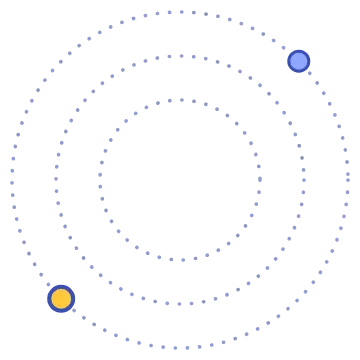
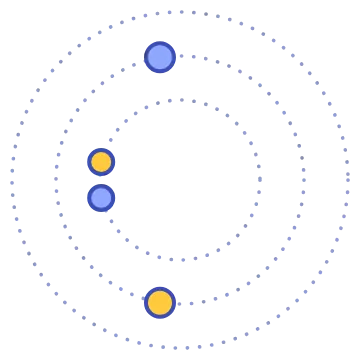
fix(front): banda de KPI en 3x2 a 1366, decoración solo en el margen derecho, escalonado por banda, Clientes compacto, Ajustes en caliente

diff --git a/kerna/front/app/estaticos/kerna.css b/kerna/front/app/estaticos/kerna.css
@@ -862,11 +862,11 @@ k-n svg,k-lx svg{display:block;width:100%;height:100%;overflow:visible}
 /* banda de indicadores */
 .kbs{display:grid;grid-template-columns:repeat(2,minmax(0,1fr));gap:12px 0}
 @media(min-width:900px){.kbs{grid-template-columns:repeat(4,minmax(0,1fr))}.kbs6{grid-template-columns:repeat(3,minmax(0,1fr))}}
-@media(min-width:1240px){.kbs6{grid-template-columns:repeat(6,minmax(0,1fr))}}
+@media(min-width:1800px){.kbs6{grid-template-columns:repeat(6,minmax(0,1fr))}}
 .kb{display:flex;align-items:center;gap:10px;padding:2px 14px;min-width:0;border-left:2px dotted var(--line-strong)}
 .kbs>.kb:first-child,.kb:nth-child(2n+1){border-left:0}
 @media(min-width:900px){.kbs>.kb:nth-child(2n+1){border-left:2px dotted var(--line-strong)}.kbs>.kb:first-child{border-left:0}.kbs6>.kb:nth-child(3n+1){border-left:0}}
-@media(min-width:1240px){.kbs6>.kb:nth-child(3n+1){border-left:2px dotted var(--line-strong)}.kbs6>.kb:first-child{border-left:0}}
+@media(min-width:1800px){.kbs6>.kb:nth-child(3n+1){border-left:2px dotted var(--line-strong)}.kbs6>.kb:first-child{border-left:0}}
 .kb-b{display:grid;gap:2px;min-width:0}
 .kb-l{display:flex;align-items:center;gap:2px;font:500 11px/1.2 "JetBrains Mono",monospace;letter-spacing:.08em;text-transform:uppercase;color:var(--muted)}
 .kb-v{display:flex;align-items:baseline;gap:4px;color:var(--st);line-height:1.05}
@@ -876,7 +876,6 @@ k-n svg,k-lx svg{display:block;width:100%;height:100%;overflow:visible}
 .kb-e{display:flex;align-items:center;gap:4px;font-size:12px;font-weight:700;color:var(--st)}
 .kb .bu{display:block;width:120px;max-width:100%;margin:2px 0 0;padding:0}
 .kb .bu-t{margin-top:4px}.kb .bu-gl{position:static;transform:none;display:block;margin-top:3px;font-size:11px;color:var(--muted);font-weight:600}
-@media(max-width:1239px){.kbs6 .kb-l{font-size:10.5px}}
 .kbs6 .kb{gap:8px;padding:2px 10px}.kbs6 .kb>k-st,.kbs6 .kb>k-n{--s:36px!important}
 /* camino de una denuncia */
 .cm{list-style:none;margin:0;padding:0;display:flex;gap:4px;position:relative}
@@ -1116,11 +1115,11 @@ html,body{max-width:100%}
 #app .vw-main{max-width:1440px;margin-inline:auto}
 :is(#zona,.zv) .bn{--ok:#17622E;--cut:20px;position:relative;margin:0 0 12px;padding:14px 20px 12px;background-color:var(--z1);background-image:var(--arc),var(--arc),linear-gradient(100deg,var(--z1),var(--z2));background-repeat:no-repeat;background-position:right -90px top -90px,left -90px bottom -90px,0 0;background-size:180px 180px,180px 180px,100% 100%;
   clip-path:polygon(0 0,calc(100% - var(--cut)) 0,100% var(--cut),100% 100%,var(--cut) 100%,0 calc(100% - var(--cut)))}
-:is(#zona,.zv) .z-pr{--z1:#E9FBB8;--z2:#D6F4C8;--arc:url(img/zona-pr.webp)}
-:is(#zona,.zv) .z-kb{--z1:#D9E4FF;--z2:#E8EEFF;--arc:url(img/zona-kb.webp)}
-:is(#zona,.zv) .z-cm{--z1:#D3F3FA;--z2:#E6DEFF;--arc:url(img/zona-cm.webp)}
-:is(#zona,.zv) .z-ly{--z1:#FFEFB8;--z2:#FFE0CC;--arc:url(img/zona-ly.webp)}
-:is(#zona,.zv) .z-hm{--z1:#D5F5E3;--z2:#E9FAD0;--arc:url(img/zona-hm.webp)}
+:is(#zona,.zv) .z-pr{--z1:#E9FBB8;--z2:#D6F4C8;--arc:url(img/zona-pr.webp?v=15)}
+:is(#zona,.zv) .z-kb{--z1:#D9E4FF;--z2:#E8EEFF;--arc:url(img/zona-kb.webp?v=15)}
+:is(#zona,.zv) .z-cm{--z1:#D3F3FA;--z2:#E6DEFF;--arc:url(img/zona-cm.webp?v=15)}
+:is(#zona,.zv) .z-ly{--z1:#FFEFB8;--z2:#FFE0CC;--arc:url(img/zona-ly.webp?v=15)}
+:is(#zona,.zv) .z-hm{--z1:#D5F5E3;--z2:#E9FAD0;--arc:url(img/zona-hm.webp?v=15)}
 :is(#zona,.zv) .z-ly .ani-b{stroke:rgba(255,255,255,.75)}
 :is(#zona,.zv) .kb-v b,:is(#zona,.zv) .cm b{text-shadow:none}
 :is(#zona,.zv) .orb-c{fill:var(--lime);stroke:var(--brand);stroke-width:1.6}
@@ -1192,7 +1191,7 @@ html,body{max-width:100%}
 .zv .chs li{background:#fff}
 
 /* v14 · Informe: bandas de color, baldosas de cifras con anillo (sin borde izquierdo de color) */
-.zv .z-co{--z1:#FFE4DC;--z2:#FFD3C7;--arc:url(img/zona-ly.webp)}
+.zv .z-co{--z1:#FFE4DC;--z2:#FFD3C7;--arc:url(img/zona-ly.webp?v=15)}
 .zv .tp{max-width:100%}
 .zv .tp.bn{margin-top:0}
 .zv .stt{margin:14px 0 0;gap:12px}
@@ -1207,9 +1206,32 @@ html,body{max-width:100%}
 /* el «?» de «En espera · próximo reintento…» va pegado al texto aunque este pase a dos líneas */
 .cola>.mk{display:block}
 .cola>.mk k-tip{margin-left:4px}
-.zv .kbs6{padding-right:36px}
 .zv .tp .cch{max-width:960px}
 .zv .stt .stl{flex-wrap:nowrap;min-width:0}.zv .stl .stl-t{min-width:0}
 @media(max-width:599px){.zv .stt .stl{padding:8px 18px 8px 10px;gap:10px}.zv .stl svg.ani{width:48px;height:48px}}
 .pr-n .frase{font-size:clamp(20px,1.8vw,28px)}
 .zv .stt .stl .ani-b{stroke:rgba(15,23,54,.14)}
+
+/* v15 · pulido: banda de KPI sin choques, decoración solo en el margen derecho, escalonado por banda, Clientes compacto */
+:is(#zona,.zv) .bn{--dec:56px;padding-right:calc(var(--dec) + 6px);background-image:var(--arc),var(--arc),linear-gradient(100deg,var(--z1),var(--z2));background-size:calc(var(--dec)*2) calc(var(--dec)*2),calc(var(--dec)*2) calc(var(--dec)*2),100% 100%;background-position:right calc(var(--dec)*-1) top calc(var(--dec)*-1),right calc(var(--dec)*-1) bottom calc(var(--dec)*-1),0 0}
+:is(#zona,.zv) .z-ly{background-image:var(--arc),var(--arc),linear-gradient(100deg,var(--z1),var(--z2));background-size:calc(var(--dec)*2) calc(var(--dec)*2),calc(var(--dec)*2) calc(var(--dec)*2),100% 100%;background-position:right calc(var(--dec)*-1) top calc(var(--dec)*-1),right calc(var(--dec)*-1) bottom calc(var(--dec)*-1),0 0}
+@media(max-width:599px){:is(#zona,.zv) .bn,:is(#zona,.zv) .z-ly{--dec:26px;--cut:14px;padding:12px 32px 10px 14px;background-image:var(--arc),var(--arc),linear-gradient(100deg,var(--z1),var(--z2));background-size:calc(var(--dec)*2) calc(var(--dec)*2),calc(var(--dec)*2) calc(var(--dec)*2),100% 100%;background-position:right calc(var(--dec)*-1) top calc(var(--dec)*-1),right calc(var(--dec)*-1) bottom calc(var(--dec)*-1),0 0}}
+/* etiqueta de KPI: texto en línea (máx. 2 líneas) y «?» pegado a su última palabra */
+.kb-l{display:block;font-size:11px;line-height:1.3}
+.kb-l .nw{white-space:nowrap}
+.kb-l k-tip{margin:-5px 0 -4px 3px;vertical-align:middle}
+.kb-l k-tip button{width:20px;height:20px}
+.kb-e{align-items:flex-start}.kb-e>span{min-width:0}
+.kbs6 .kb-b{flex:1 1 auto}
+@media(max-width:599px){.kb-l{font-size:9px;letter-spacing:0}.kb-l k-tip{margin-left:1px}.kb-l k-tip button{width:16px;height:16px}.kb-l k-tip k-ic{width:13px;height:13px}.kbs6 .kb-l{font-size:9px}}
+/* Clientes: columnas repartidas, anillo más pequeño, sin huecos bajo la fila */
+@media(min-width:900px){.cli-g{align-items:stretch}.cli-d{display:flex;flex-direction:column;justify-content:center}.cli-d .dn{width:104px;height:104px}.cli-d .mk{margin-bottom:6px}.cli-l{align-self:center}}
+/* Movimiento: cada banda entra una tras otra (solo opacity y transform); sin movimiento si el sistema lo pide */
+@keyframes bnIn{from{opacity:0;transform:translate3d(0,14px,0)}to{opacity:1;transform:none}}
+@media(prefers-reduced-motion:no-preference){
+  :is(#zona,.zv)>.bar,:is(#zona,.zv)>.bn,:is(#zona,.zv)>.vac,#inf-cuerpo>*{animation:bnIn .6s var(--ease) backwards;animation-delay:calc(var(--i,0)*70ms)}
+  :is(#zona,.zv)>:nth-child(1),#inf-cuerpo>:nth-child(1){--i:0}:is(#zona,.zv)>:nth-child(2),#inf-cuerpo>:nth-child(2){--i:1}
+  :is(#zona,.zv)>:nth-child(3),#inf-cuerpo>:nth-child(3){--i:2}:is(#zona,.zv)>:nth-child(4),#inf-cuerpo>:nth-child(4){--i:3}
+  :is(#zona,.zv)>:nth-child(5),#inf-cuerpo>:nth-child(5){--i:4}:is(#zona,.zv)>:nth-child(n+6),#inf-cuerpo>:nth-child(n+6){--i:5}
+}
+@media(min-width:1800px){.kbs6>.kb{border-left:2px dotted var(--line-strong)}.kbs6>.kb:first-child{border-left:0}}

diff --git a/kerna/front/app/plantillas/_macros.html b/kerna/front/app/plantillas/_macros.html
@@ -44,7 +44,7 @@
 {% macro kb(k) -%}
 <div class="kb s-{{ k.e }}" id="k-{{ k.k }}" data-s="k.{{ k.k }}">
 {{ ic(k.ic, px=44) }}
-<div class="kb-b"><span class="kb-l">{{ k.l }}{{ tip(k.g or k.k, k.x, 'k.' ~ k.k) }}</span>
+<div class="kb-b">{% set _p = k.l.split(' ') %}<span class="kb-l">{% if _p|length > 1 %}{{ _p[:-1]|join(' ') }} {% endif %}<span class="nw">{{ _p[-1] }}{{ tip(k.g or k.k, k.x, 'k.' ~ k.k) }}</span></span>
 <span class="kb-v">{% if k.p %}<small>{{ k.p }}</small>{% endif %}<b data-t="k.{{ k.k }}.v">{{ k.v }}</b>{% if k.u %}<small>{{ k.u }}</small>{% endif %}</span>
 {% if k.bar %}<span class="bu" role="img" aria-label="{{ k.l }}: {{ k.v }} {{ k.u }}, {{ k.bar.t }}"><span class="bu-t">{% for z in k.bar.z %}<i class="s-{{ z.e }}" style="flex:{{ z.w }}"></i>{% endfor %}<b class="bu-m" style="left:{{ k.bar.pos }}%"></b><u class="bu-g" style="left:{{ k.bar.meta }}%"></u></span><span class="bu-gl">{{ k.bar.t }}</span></span>{% endif %}
 {% if k.sub %}<span class="kb-sub">{{ k.sub }}</span>{% endif %}

diff --git a/kerna/pruebas/unitarias/test_front_v15.py b/kerna/pruebas/unitarias/test_front_v15.py
@@ -1,0 +1,87 @@
+"""Front v15: ajustes en caliente sin leer la tabla y sin datos viejos tras guardar, banda de KPI sin choques, decoración fuera del texto, escalonado por banda."""
+import json
+import re
+import sys
+import time
+from pathlib import Path
+
+import pytest
+from fastapi.testclient import TestClient
+
+sys.path.insert(0, str(Path(__file__).resolve().parents[2] / "front"))
+from test_front_ajustes import H, TablaFalsa  # noqa: E402,F401
+from app import ajustes, cache, principal, seguridad  # noqa: E402
+
+EST = Path(__file__).resolve().parents[2] / "front" / "app"
+CSS = (EST / "estaticos" / "kerna.css").read_text()
+V15 = CSS[CSS.index("/* v15"):]
+
+
+@pytest.fixture
+def cli(monkeypatch):
+    t = TablaFalsa()
+    monkeypatch.setattr(ajustes, "_tabla", lambda: t)
+    cache.vaciar()
+    cache._version.clear()
+    yield TestClient(principal.app, base_url="https://t")
+    cache.vaciar()
+
+
+def test_ajustes_en_caliente_no_leen_la_tabla(cli, monkeypatch):
+    assert cli.get("/panel/ajustes", headers=H).status_code == 200            # primera lectura (frío)
+    monkeypatch.setattr(ajustes, "cargar", lambda *a, **k: (_ for _ in ()).throw(AssertionError("leyó la tabla")))
+    t0 = time.perf_counter()
+    for _ in range(5):
+        assert cli.get("/panel/ajustes", headers=H).status_code == 200
+    assert (time.perf_counter() - t0) / 5 < 0.1
+
+
+def test_tras_guardar_no_se_sirve_el_valor_anterior(cli):
+    cli.get("/panel/ajustes", headers=H)
+    hj = {**H, "Accept": "application/json", "Origin": "https://t"}
+    r = cli.post("/panel/ajustes", headers=hj, data={"csrf": seguridad.token_csrf({}), "valores": json.dumps({**ajustes.RECOMENDADO, "envios": 9})})
+    assert r.json()["estado"] == "ok"
+    assert cache.obtener(("ajustes",), lambda: pytest.fail("recalculó"), 15)["valores"]["envios"] == 9
+    assert '"envios": 9' in cli.get("/panel/ajustes", headers=H).text or '"envios":9' in cli.get("/panel/ajustes", headers=H).text
+
+
+def test_un_calculo_viejo_en_curso_no_pisa_lo_guardado():
+    cache.vaciar(); cache._version.clear()
+    cache.obtener(("k",), lambda: "viejo", ttl=0)
+    def lento():
+        cache.poner(("k",), "nuevo")                                         # se guarda mientras el refresco corre
+        return "viejo2"
+    cache._enproceso.add(("k",)); cache._calcular(("k",), lento)
+    assert cache._datos[("k",)][1] == "nuevo"
+    cache.vaciar()
+
+
+def test_ajustes_se_precalientan_al_arrancar():
+    src = (EST / "principal.py").read_text()
+    assert '(("ajustes",), aj.cargar, 15)' in src
+
+
+def test_banda_de_kpi_de_seis_en_tres_columnas_hasta_1799():
+    assert "@media(min-width:900px){.kbs{grid-template-columns:repeat(4,minmax(0,1fr))}.kbs6{grid-template-columns:repeat(3,minmax(0,1fr))}}" in CSS
+    assert "@media(min-width:1800px){.kbs6{grid-template-columns:repeat(6,minmax(0,1fr))}}" in CSS
+
+
+def test_etiqueta_de_kpi_pega_el_interrogante_a_la_ultima_palabra():
+    from jinja2 import Environment, FileSystemLoader
+    env = Environment(loader=FileSystemLoader(str(EST / "plantillas")))
+    env.globals.update(ic=lambda *a, **k: "", ICONO={"ok": "x"}, glos={})
+    m = env.get_template("_macros.html").module
+    k = {"k": "util", "l": "Sugerencias útiles", "e": "ok", "ic": "x", "v": "—", "x": "q"}
+    html = str(m.kb(k))
+    assert re.search(r'<span class="kb-l">Sugerencias <span class="nw">útiles<k-tip', html), html
+
+
+def test_decoracion_solo_en_el_margen_derecho_y_ninguna_a_la_izquierda():
+    assert "--dec:56px" in V15 and "padding-right:calc(var(--dec) + 6px)" in V15
+    assert "left -90px bottom -90px" not in V15 and "right calc(var(--dec)*-1) bottom calc(var(--dec)*-1)" in V15
+
+
+def test_escalonado_por_banda_solo_transform_y_opacity_y_con_reduced_motion():
+    assert "@keyframes bnIn{from{opacity:0;transform:translate3d(0,14px,0)}to{opacity:1;transform:none}}" in V15
+    assert "@media(prefers-reduced-motion:no-preference){" in V15 and "steps(" not in V15
+    assert "animation-delay:calc(var(--i,0)*70ms)" in V15

diff --git a/kerna/front/herramientas/rasterizar_decoracion.py b/kerna/front/herramientas/rasterizar_decoracion.py
@@ -40,10 +40,14 @@ def halo() -> str:
 
 
 def zona(c: str, sat1: str, sat2: str) -> str:
-    """Arcos orbitales para las esquinas cortadas de una banda del Resumen (centro en la esquina); estática."""
-    return ("<svg xmlns='http://www.w3.org/2000/svg' viewBox='0 0 180 180' fill='none'>"
-            "<g stroke='#%s' stroke-opacity='.55' stroke-width='1.8' stroke-dasharray='.1 6' stroke-linecap='round'><circle cx='90' cy='90' r='40'/><circle cx='90' cy='90' r='62'/><circle cx='90' cy='90' r='84'/></g>"
-            "<circle cx='30.6' cy='149.4' r='6' fill='#%s' stroke='#%s' stroke-width='2'/><circle cx='149.4' cy='30.6' r='5' fill='#%s' stroke='#%s' stroke-width='1.5'/></svg>" % (c, sat1, c, sat2, c))
+    """Arcos orbitales para las esquinas derechas de una banda (centro en la esquina: arriba a la derecha se ve el cuadrante inferior izquierdo
+    del dibujo, abajo a la derecha el superior izquierdo). Los satélites van pegados al borde de la banda, dentro del margen derecho
+    reservado para la decoración, para que nunca queden encima de un texto; estática."""
+    arcos = ("<g stroke='#%s' stroke-opacity='.55' stroke-width='1.8' stroke-dasharray='.1 6' stroke-linecap='round'>"
+             "<circle cx='90' cy='90' r='40'/><circle cx='90' cy='90' r='62'/><circle cx='90' cy='90' r='84'/></g>" % c)
+    sats = ("<g stroke='#%s' stroke-width='2'><circle cx='80' cy='151.4' r='7' fill='#%s'/><circle cx='50.6' cy='99' r='6' fill='#%s'/>"
+            "<circle cx='80' cy='28.6' r='7' fill='#%s'/><circle cx='50.6' cy='81' r='6' fill='#%s'/></g>" % (c, sat1, sat2, sat2, sat1))
+    return "<svg xmlns='http://www.w3.org/2000/svg' viewBox='0 0 180 180' fill='none'>" + arcos + sats + "</svg>"
 
 
 ZONAS = {"pr": ("6E9A12", "CFFF5E", "47D985"), "kb": ("3B4FB4", "FFC93C", "8FA8FF"), "cm": ("0E8FAD", "B58CFF", "FFC93C"),

diff --git a/kerna/front/app/principal.py b/kerna/front/app/principal.py
@@ -253,7 +253,7 @@ def precalentar():
     """Al arrancar: deja listos Resumen, informe y Negocio para que la primera visita no espere a Log Analytics."""
     cache.precalentar([(("metricas", 7), lambda: consultas.metricas(7), 60), (("prov",), proveedores.estado_proveedores, 60),
                        (("informe", 30, None, None), lambda: _informe_directo(30), 120), (("rei",), reintentos.resumen, 60), (("ev",), evaluaciones.cargar, 120),
-                       (("negocio", 30), lambda: negocio.cargar(dias=30), 120)]
+                       (("negocio", 30), lambda: negocio.cargar(dias=30), 120), (("ajustes",), aj.cargar, 15)]
                       + [(("extra", k, 7), (lambda k=k: _extra_directo(k, 7)), consultas.TTL_S) for k in ("front_tokens_por_modelo", "latencia_por_etapa", "front_horarios")])
 
 
@@ -369,7 +369,7 @@ def panel_ajustes(request: Request):
     if not _permitido(request):
         return RedirectResponse("/acceso", status_code=303)
     try:
-        est, error = cache.obtener(("ajustes",), aj.cargar, 15), None
+        est, error = cache.obtener(("ajustes",), aj.cargar, 15, vida_max=86400), None
     except Exception as e:
         est, error = {"valores": aj.RECOMENDADO, "guardado_en": None}, type(e).__name__
     return plantillas.TemplateResponse(request, "ajustes.html", {
@@ -398,7 +398,7 @@ def guardar_ajustes(request: Request, csrf: str = Form(""), valores: str = Form(
         return fin("invalido", 400)
     try:
         g = aj.guardar(v)
-        cache.invalidar(("ajustes",))
+        cache.poner(("ajustes",), g)  # lo recién guardado queda como dato fresco: sin leer la tabla ni servir el valor anterior
         return fin("ok", guardado_en=g["guardado_en"])
     except Exception:
         return fin("error", 502)

diff --git a/kerna/front/app/cache.py b/kerna/front/app/cache.py
@@ -27,10 +27,15 @@ def paralelo(tareas: dict[str, Callable]) -> dict:
     return out
 
 
+_version: dict = {}
+
+
 def _calcular(clave, fn):
     try:
+        ver = _version.get(clave, 0)
         v = fn()
-        _datos[clave] = (time.time(), v)
+        if _version.get(clave, 0) == ver:  # si mientras tanto se guardó un valor nuevo (poner), no lo pisa con uno viejo
+            _datos[clave] = (time.time(), v)
     finally:
         with _candado:
             _enproceso.discard(clave)
@@ -83,3 +88,9 @@ def marca(clave):
 
 def invalidar(clave) -> None:
     _datos.pop(clave, None)
+
+
+def poner(clave, valor) -> None:
+    """Guarda un valor ya conocido (p. ej. lo recién guardado) como dato fresco."""
+    _version[clave] = _version.get(clave, 0) + 1
+    _datos[clave] = (time.time(), valor)
